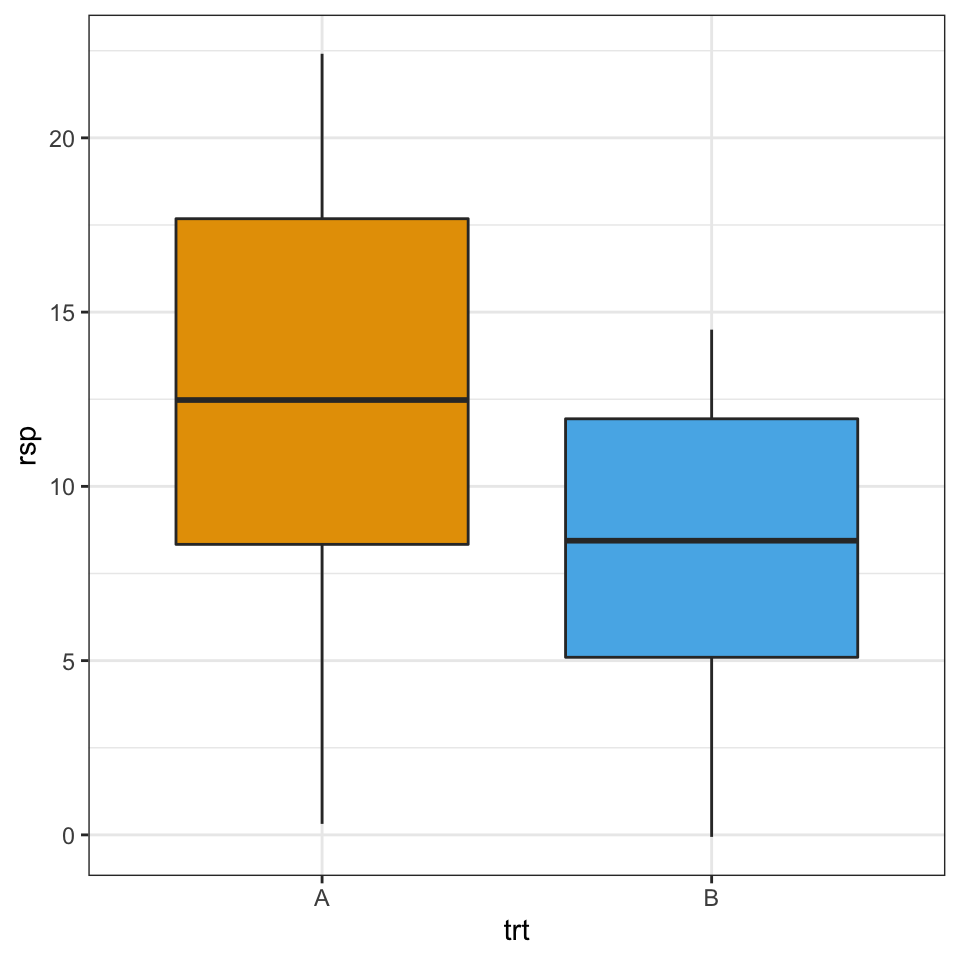
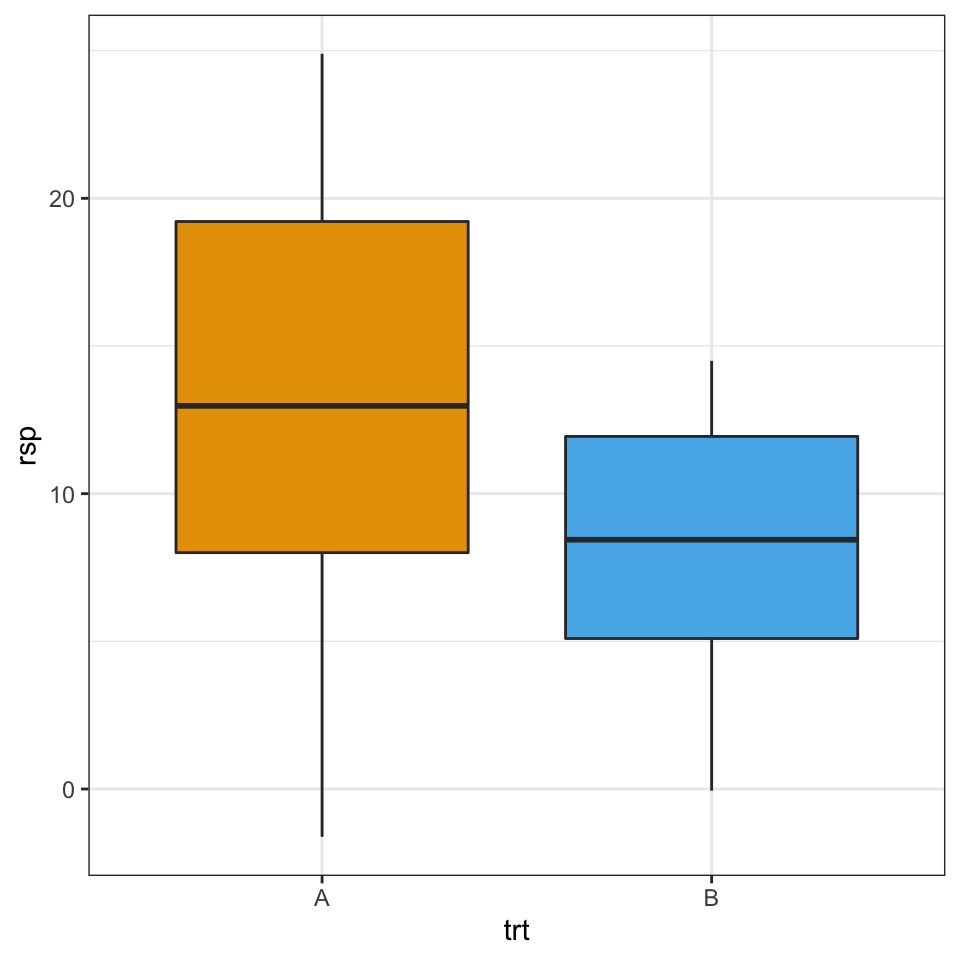
finished pretest

diff --git a/docs/stat-tests-pretest 2.html b/docs/stat-tests-pretest 2.html
@@ -496,7 +496,7 @@ code span.wa { color: #60a0b0; font-weight: bold; font-style: italic; } /* Warni
 <p>Probleme mit dem Pre-Tests ist, dass die Fallzahl in unseren Daten <span class="math inline">\(D\)</span> oft <strong>viel zu klein</strong> ist um eine eindeutige Aussage zu treffen.</p>
 </div></div><p>Der Pre-Test, ein Kapiel was ich nicht mag. Also eher weniger das Kapitel als den Pre-Test. Auf der einen Seite sind die Pre-Tests hoffnungslos veraltet. Pre-Tests stammen aus einer Zeit in der man sich nicht einfach die Daten angucken konnte. Mit angucken meine ich dann in <code>ggplot</code> visualisieren. Die Idee hinter Pre-Test ist eigentlich die Angst selber die Entscheidung zu treffen, ob die Daten varianzhomogen oder normalverteilt sind. Eine bessere Lösung ist immer noch das Outcome <span class="math inline">\(y\)</span> zu transformieren (siehe <a href="eda-transform.html"><span>Kapitel&nbsp;16</span></a>) und dann das untransformierte Modell mit transformierten Modell zu vergleichen (siehe <a href="stat-modeling-basic.html#sec-model-basic-compare"><span>Kapitel&nbsp;33.6</span></a>). Auf der anderen Seite ist der Pre-Test eine Art übermächtiger Entscheider. Dabei sind die Formel sehr trivial und das Konzept eher simpel.</p>
 <p>Neben dieser Angst eine Entscheidung zu treffen, hilft einem der Pre-Test zur Varianzhomogenität und der Pre-Test zur Normalverteilung bei kleiner Fallzahl auch nicht wirklich weiter, wie wir gleich sehen werden. Beide Pre-Tests funktionieren erst bei wirklich hohen Fallzahlen gut. Mit hohen Fallzahlen meine ich, Fallzahlen von über 20 Beobachtungen <em>je Gruppe</em> bzw. Level des Faktors. Bei kleiner Fallzahl, also der üblichen Anzahl von weniger als zehn Wiederholungen, können wir auch nur die Boxplots oder Dotplots anschauen. Darüber hinaus können wir uns auch schnell ins Abseits testen, so dass wir gar keinen Test mehr übrig haben um unsere Daten auszuwerten.</p>
-<p>Es ist grundsätzlich besser verschiedene Modelle zu fitten und dann sich in <a href="stat-linear-reg-quality.html"><span>Kapitel&nbsp;31</span></a> die Güte oder Qualität der Modelle anzuschauen. Jedenfalls ist das meiner Meinung nach die bessere Lösung. Da aber immer wieder nach den Pre-Tests gefragt wird, habe ich auch dieses Kapitel erschaffen.</p>
+<p>Es ist grundsätzlich besser verschiedene Modelle zu fitten und dann sich in <a href="stat-linear-reg-quality.html"><span>Kapitel&nbsp;30</span></a> die Güte oder Qualität der Modelle anzuschauen. Jedenfalls ist das meiner Meinung nach die bessere Lösung. Da aber immer wieder nach den Pre-Tests gefragt wird, habe ich auch dieses Kapitel erschaffen.</p>
 <section id="genutzte-r-pakete-für-das-kapitel" class="level2" data-number="28.1"><h2 data-number="28.1" class="anchored" data-anchor-id="genutzte-r-pakete-für-das-kapitel">
 <span class="header-section-number">28.1</span> Genutzte R Pakete für das Kapitel</h2>
 <p>Wir wollen folgende R Pakete in diesem Kapitel nutzen.</p>
@@ -550,7 +550,7 @@ Entscheidung zur Varianzhomogenität
 </div></div><p>Wir wollen uns nun zwei Fälle einmal näher anschauen. Zum einen den Fall, dass wir eine niedrige Fallzahl vorliegen haben und Varianzhomogenität sowie den Fall, dass wir eine niedriege Fallzahl und Varianzheterogenität vorliegen haben. Den Fall, dass wir hohe Fallzahl vorliegen haben, betrachten wir jetzt nicht weiter. In dem Fall funktionieren die Tests einigigermaßen zuverlässig.</p>
 </section><section id="varianzen-sind-homogen-fallzahl-niedrig" class="level2" data-number="28.3"><h2 data-number="28.3" class="anchored" data-anchor-id="varianzen-sind-homogen-fallzahl-niedrig">
 <span class="header-section-number">28.3</span> Varianzen sind homogen, Fallzahl niedrig</h2>
-<p>Wir bauen uns nun einen Datensatz mit zwei Gruppen <span class="math inline">\(A\)</span> und <span class="math inline">\(B\)</span> zu je zehn Beobachtungen. Beide Gruppen kommen aus einer Normalverteilung mit einem Mittelwert von <span class="math inline">\(\bar{y}_A = \bar{y}_A = 10\)</span>. Darüber hinaus haben wir Varianzhomogenität mit <span class="math inline">\(s_A = s_B = 5\)</span> vorliegen. Ja, wir spezifizieren hier in der Funktion <code><a href="https://rdrr.io/r/stats/Normal.html">rnorm()</a></code> die Standardabweichung, aber eine homogene Standardabweichung bedingt eine homogene Varianz und umgekehrt. Abschließend verwandeln wir das Wide-Format noch in das Long-Format um.</p>
+<p>Wir bauen uns nun einen Datensatz mit zwei Gruppen <span class="math inline">\(A\)</span> und <span class="math inline">\(B\)</span> zu je zehn Beobachtungen. Beide Gruppen kommen aus einer Normalverteilung mit einem Mittelwert von <span class="math inline">\(\bar{y}_A = \bar{y}_A = 10\)</span>. Darüber hinaus haben wir Varianzhomogenität mit <span class="math inline">\(s_A = s_B = 5\)</span> vorliegen. Ja, wir spezifiezieren hier in der Funktion <code><a href="https://rdrr.io/r/stats/Normal.html">rnorm()</a></code> die Standardabweichung, aber eine homogene Standardabweichung bedingt eine homogene Varianz und umgekehrt. Abschließend verwandeln wir das Wide-Format noch in das Long-Format um.</p>
 <div class="cell">
 <div class="sourceCode" id="cb2"><pre class="downlit sourceCode r code-with-copy"><code class="sourceCode R"><span><span class="fu"><a href="https://rdrr.io/r/base/Random.html">set.seed</a></span><span class="op">(</span><span class="fl">202209013</span><span class="op">)</span></span>
 <span><span class="va">small_homogen_tbl</span> <span class="op">&lt;-</span> <span class="fu">tibble</span><span class="op">(</span>A <span class="op">=</span> <span class="fu"><a href="https://rdrr.io/r/stats/Normal.html">rnorm</a></span><span class="op">(</span>n <span class="op">=</span> <span class="fl">10</span>, mean <span class="op">=</span> <span class="fl">10</span>, sd <span class="op">=</span> <span class="fl">5</span><span class="op">)</span>,</span>
@@ -593,53 +593,47 @@ Entscheidung zur Varianzhomogenität
 <pre><code>OK: There is not clear evidence for different variances across groups (Bartlett Test, p = 0.325).</code></pre>
 </div>
 </div>
-<p>Wir nutzen das Paket <code>performance</code> für die Modellgüte im <a href="stat-linear-reg-quality.html"><span>Kapitel&nbsp;31</span></a>.</p>
+<p>Wir nutzen das Paket <code>performance</code> für die Modellgüte im <a href="stat-linear-reg-quality.html"><span>Kapitel&nbsp;30</span></a>.</p>
 </section><section id="varianzen-sind-heterogen-fallzahl-niedrig" class="level2" data-number="28.4"><h2 data-number="28.4" class="anchored" data-anchor-id="varianzen-sind-heterogen-fallzahl-niedrig">
 <span class="header-section-number">28.4</span> Varianzen sind heterogen, Fallzahl niedrig</h2>
-<p>Nun stellt sich die Frage, wie sieht es aus, wenn wir ungleiche Varianzen vorliegen haben. Wir bauen uns nun einen Datensatz mit zwei Gruppen <span class="math inline">\(A\)</span> und <span class="math inline">\(B\)</span> zu je zehn Beobachtungen. Beide Gruppen kommen aus einer Normalverteilung mit einem Mittelwert von <span class="math inline">\(\bar{y}_A = \bar{y}_A = 12\)</span>. Darüber hinaus haben wir Varianzheterogenität mit <span class="math inline">\(s_A = 10 \ne s_B = 5\)</span> vorliegen.</p>
 <div class="cell">
 <div class="sourceCode" id="cb9"><pre class="downlit sourceCode r code-with-copy"><code class="sourceCode R"><span><span class="fu"><a href="https://rdrr.io/r/base/Random.html">set.seed</a></span><span class="op">(</span><span class="fl">202209013</span><span class="op">)</span></span>
-<span><span class="va">small_heterogen_tbl</span> <span class="op">&lt;-</span> <span class="fu">tibble</span><span class="op">(</span>A <span class="op">=</span> <span class="fu"><a href="https://rdrr.io/r/stats/Normal.html">rnorm</a></span><span class="op">(</span><span class="fl">10</span>, <span class="fl">10</span>, <span class="fl">12</span><span class="op">)</span>,</span>
+<span><span class="va">small_heterogen_tbl</span> <span class="op">&lt;-</span> <span class="fu">tibble</span><span class="op">(</span>A <span class="op">=</span> <span class="fu"><a href="https://rdrr.io/r/stats/Normal.html">rnorm</a></span><span class="op">(</span><span class="fl">10</span>, <span class="fl">10</span>, <span class="fl">10</span><span class="op">)</span>,</span>
 <span>                              B <span class="op">=</span> <span class="fu"><a href="https://rdrr.io/r/stats/Normal.html">rnorm</a></span><span class="op">(</span><span class="fl">10</span>, <span class="fl">10</span>, <span class="fl">5</span><span class="op">)</span><span class="op">)</span> <span class="op">%&gt;%</span> </span>
 <span>  <span class="fu">gather</span><span class="op">(</span><span class="va">trt</span>, <span class="va">rsp</span><span class="op">)</span> <span class="op">%&gt;%</span> </span>
 <span>  <span class="fu">mutate</span><span class="op">(</span>trt <span class="op">=</span> <span class="fu">as_factor</span><span class="op">(</span><span class="va">trt</span><span class="op">)</span><span class="op">)</span></span></code><button title="In die Zwischenablage kopieren" class="code-copy-button"><i class="bi"></i></button></pre></div>
 </div>
-<p>In der <a href="#fig-vartest-2">Abbildung&nbsp;<span>28.2</span></a> sehen wir die Daten aus dem <code>small_heterogen_tbl</code> einmal als Boxplot visualisiert.</p>
 <div class="cell" data-layout-align="center">
 <div class="cell-output-display">
 <div id="fig-vartest-2" class="quarto-figure quarto-figure-center anchored">
 <figure class="figure"><p><img src="stat-tests-pretest_files/figure-html/fig-vartest-2-1.png" class="img-fluid figure-img" width="480"></p>
-<p></p><figcaption aria-hidden="true" class="figure-caption">Abbildung 28.2— Boxplot der beiden Treatment Level A und B. Beide Gruppen haben ungleiche Varianzen. Es liegt Varianzheterogenität vor.</figcaption><p></p>
+<p></p><figcaption aria-hidden="true" class="figure-caption">Abbildung 28.2— Dotplot der Spungweite in [cm] in Abhängigkeit von dem Faktor <code>animal</code>.</figcaption><p></p>
 </figure>
 </div>
 </div>
 </div>
-<p>Wir wollen nun die Varianz auf Homogenität testen. Wir nutzen dafür den <code>levenTest()</code> sowie den <code><a href="https://rdrr.io/r/stats/bartlett.test.html">bartlett.test()</a></code>. Wir können nur die Varianzhomogenität testen, da jeder statistischer Test nur eine Aussage über die Nullhypothese erlaubt. Damit können wir hier nur die Varianzhomogenität testen.</p>
 <div class="cell">
 <div class="sourceCode" id="cb10"><pre class="downlit sourceCode r code-with-copy"><code class="sourceCode R"><span><span class="fu">leveneTest</span><span class="op">(</span><span class="va">rsp</span> <span class="op">~</span> <span class="va">trt</span>, data <span class="op">=</span> <span class="va">small_heterogen_tbl</span><span class="op">)</span> <span class="op">%&gt;%</span> <span class="va">tidy</span> <span class="op">%&gt;%</span> <span class="fu">select</span><span class="op">(</span><span class="va">p.value</span><span class="op">)</span></span></code><button title="In die Zwischenablage kopieren" class="code-copy-button"><i class="bi"></i></button></pre></div>
 <div class="cell-output cell-output-stdout">
 <pre><code># A tibble: 1 × 1
   p.value
     &lt;dbl&gt;
-1  0.0661</code></pre>
+1   0.188</code></pre>
 </div>
 <div class="sourceCode" id="cb12"><pre class="downlit sourceCode r code-with-copy"><code class="sourceCode R"><span><span class="fu"><a href="https://rdrr.io/r/stats/bartlett.test.html">bartlett.test</a></span><span class="op">(</span><span class="va">rsp</span> <span class="op">~</span> <span class="va">trt</span>, data <span class="op">=</span> <span class="va">small_heterogen_tbl</span><span class="op">)</span> <span class="op">%&gt;%</span> <span class="va">tidy</span> <span class="op">%&gt;%</span> <span class="fu">select</span><span class="op">(</span><span class="va">p.value</span><span class="op">)</span></span></code><button title="In die Zwischenablage kopieren" class="code-copy-button"><i class="bi"></i></button></pre></div>
 <div class="cell-output cell-output-stdout">
 <pre><code># A tibble: 1 × 1
   p.value
     &lt;dbl&gt;
-1   0.127</code></pre>
+1   0.308</code></pre>
 </div>
 </div>
-<p>Wir sehen, dass der <span class="math inline">\(p\)</span>-Wert kleiner ist als das Signifikanzniveau <span class="math inline">\(\alpha\)</span> von 20%. Damit können wir die Nullhypothese ablehnen. Wir nehmen Varianzheterogenität an. Überdies sehen wir auch, dass sich die <span class="math inline">\(p\)</span>-Werte nicht groß voneinander unterscheiden. Was wir sehen ist, dass wir zu einem Signifikanzniveau von 5% die klare Varianzheterogenität nicht erkannt hätten und immer noch Varianzhomogenität angenommen hätten.</p>
-<p>Wir können auch die Funktion <code>check_homogeneity()</code> aus dem Paket <code>performance</code> nutzen. Wir erhalten hier auch gleich eine Entscheidung in englischer Sprache ausgegeben. Die Funktion <code>check_homogeneity()</code> nutzt den Bartlett-Test. Wir können in Funktion auch andere Methoden mit <code>method = c("bartlett", "fligner", "levene", "auto")</code> wählen.</p>
 <div class="cell">
 <div class="sourceCode" id="cb14"><pre class="downlit sourceCode r code-with-copy"><code class="sourceCode R"><span><span class="fu"><a href="https://rdrr.io/r/stats/lm.html">lm</a></span><span class="op">(</span><span class="va">rsp</span> <span class="op">~</span> <span class="va">trt</span>, data <span class="op">=</span> <span class="va">small_heterogen_tbl</span><span class="op">)</span> <span class="op">%&gt;%</span> <span class="fu">check_homogeneity</span><span class="op">(</span><span class="op">)</span></span></code><button title="In die Zwischenablage kopieren" class="code-copy-button"><i class="bi"></i></button></pre></div>
 <div class="cell-output cell-output-stdout">
-<pre><code>OK: There is not clear evidence for different variances across groups (Bartlett Test, p = 0.127).</code></pre>
+<pre><code>OK: There is not clear evidence for different variances across groups (Bartlett Test, p = 0.308).</code></pre>
 </div>
 </div>
-<p>Wir sehen, dass sich die Implementierung des Bartlett-Tests in <code>check_homogeneity()</code> nicht von der Funktion <code><a href="https://rdrr.io/r/stats/bartlett.test.html">bartlett.test()</a></code> unterscheidet, aber die Entscheidung gegen die Varianzhomogenität zu einem Signifikanzniveau von 5% gefällt wird. Nicht immer hilft einem der Entscheidungtext einer Funktion.</p>
 </section><section id="pre-test-auf-normalverteilung" class="level2" data-number="28.5"><h2 data-number="28.5" class="anchored" data-anchor-id="pre-test-auf-normalverteilung">
 <span class="header-section-number">28.5</span> Pre-Test auf Normalverteilung</h2>
 <p><span class="math display">\[
